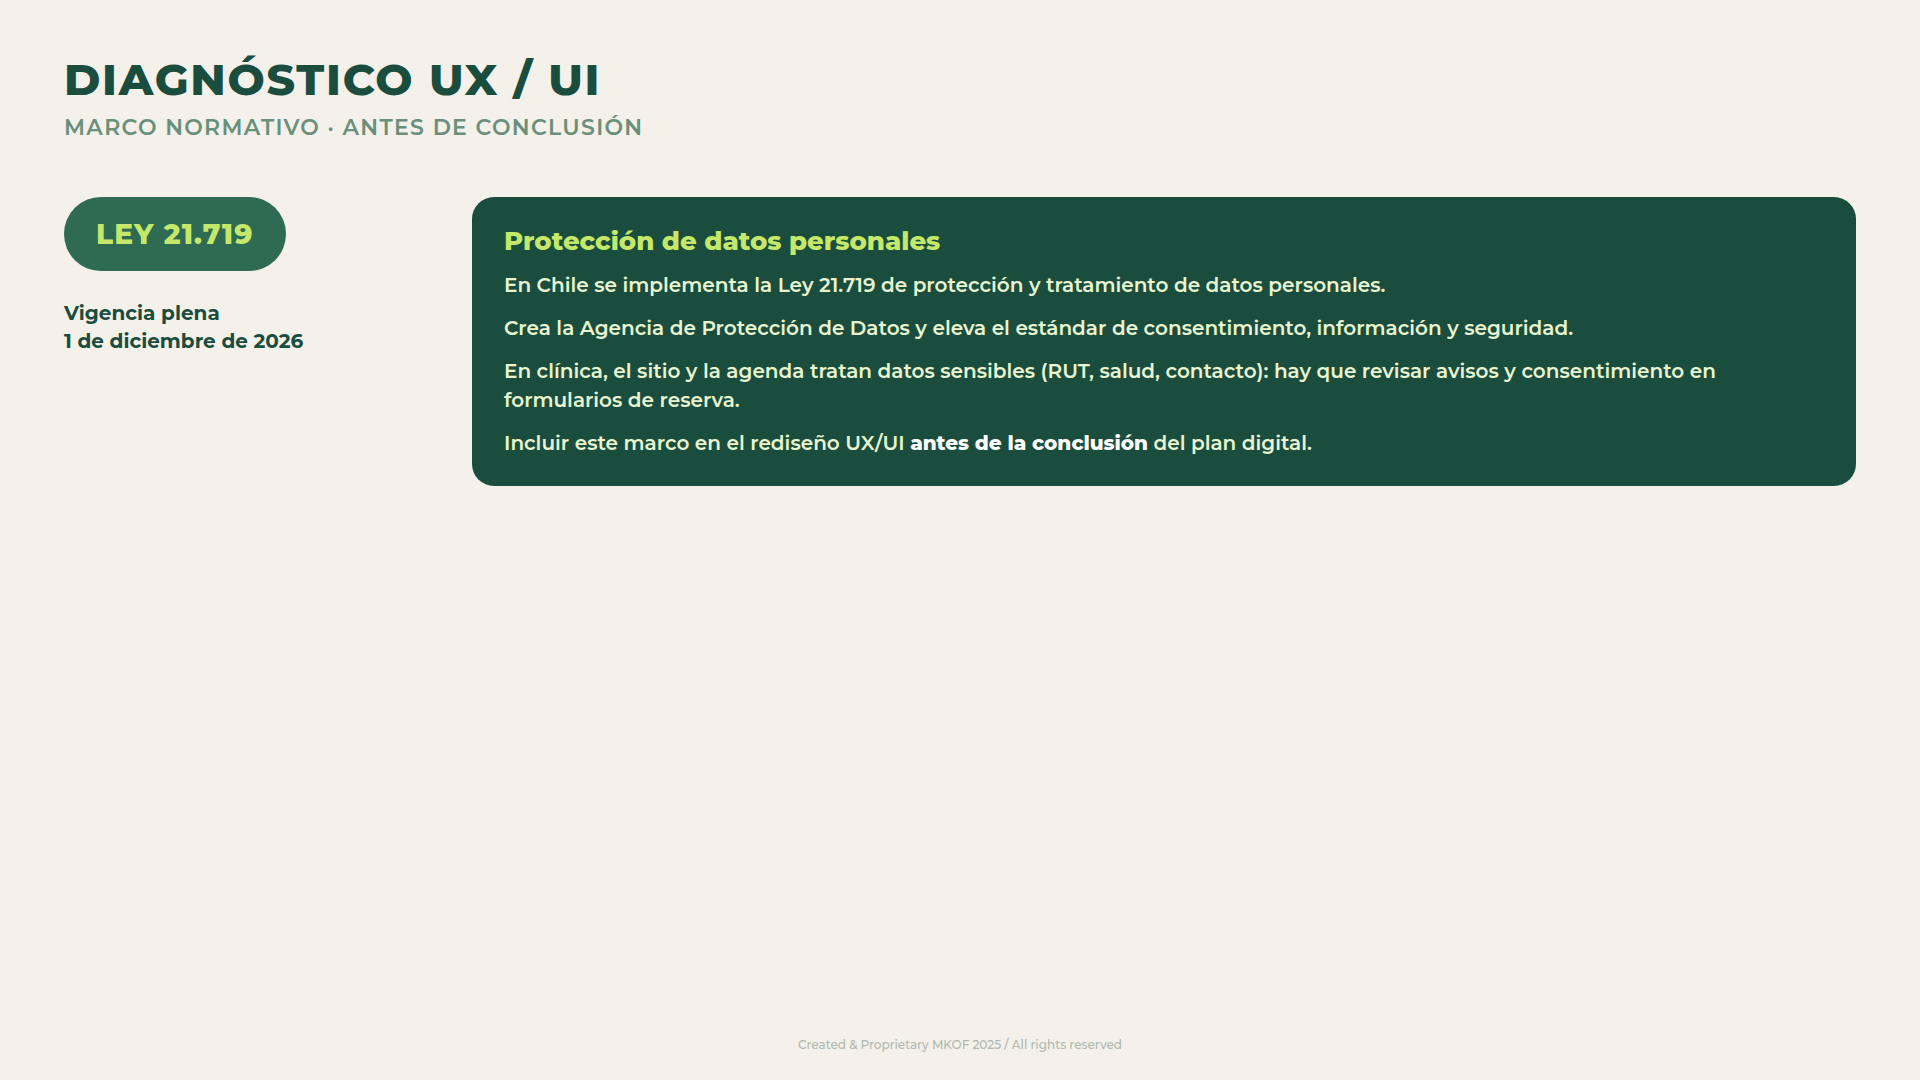
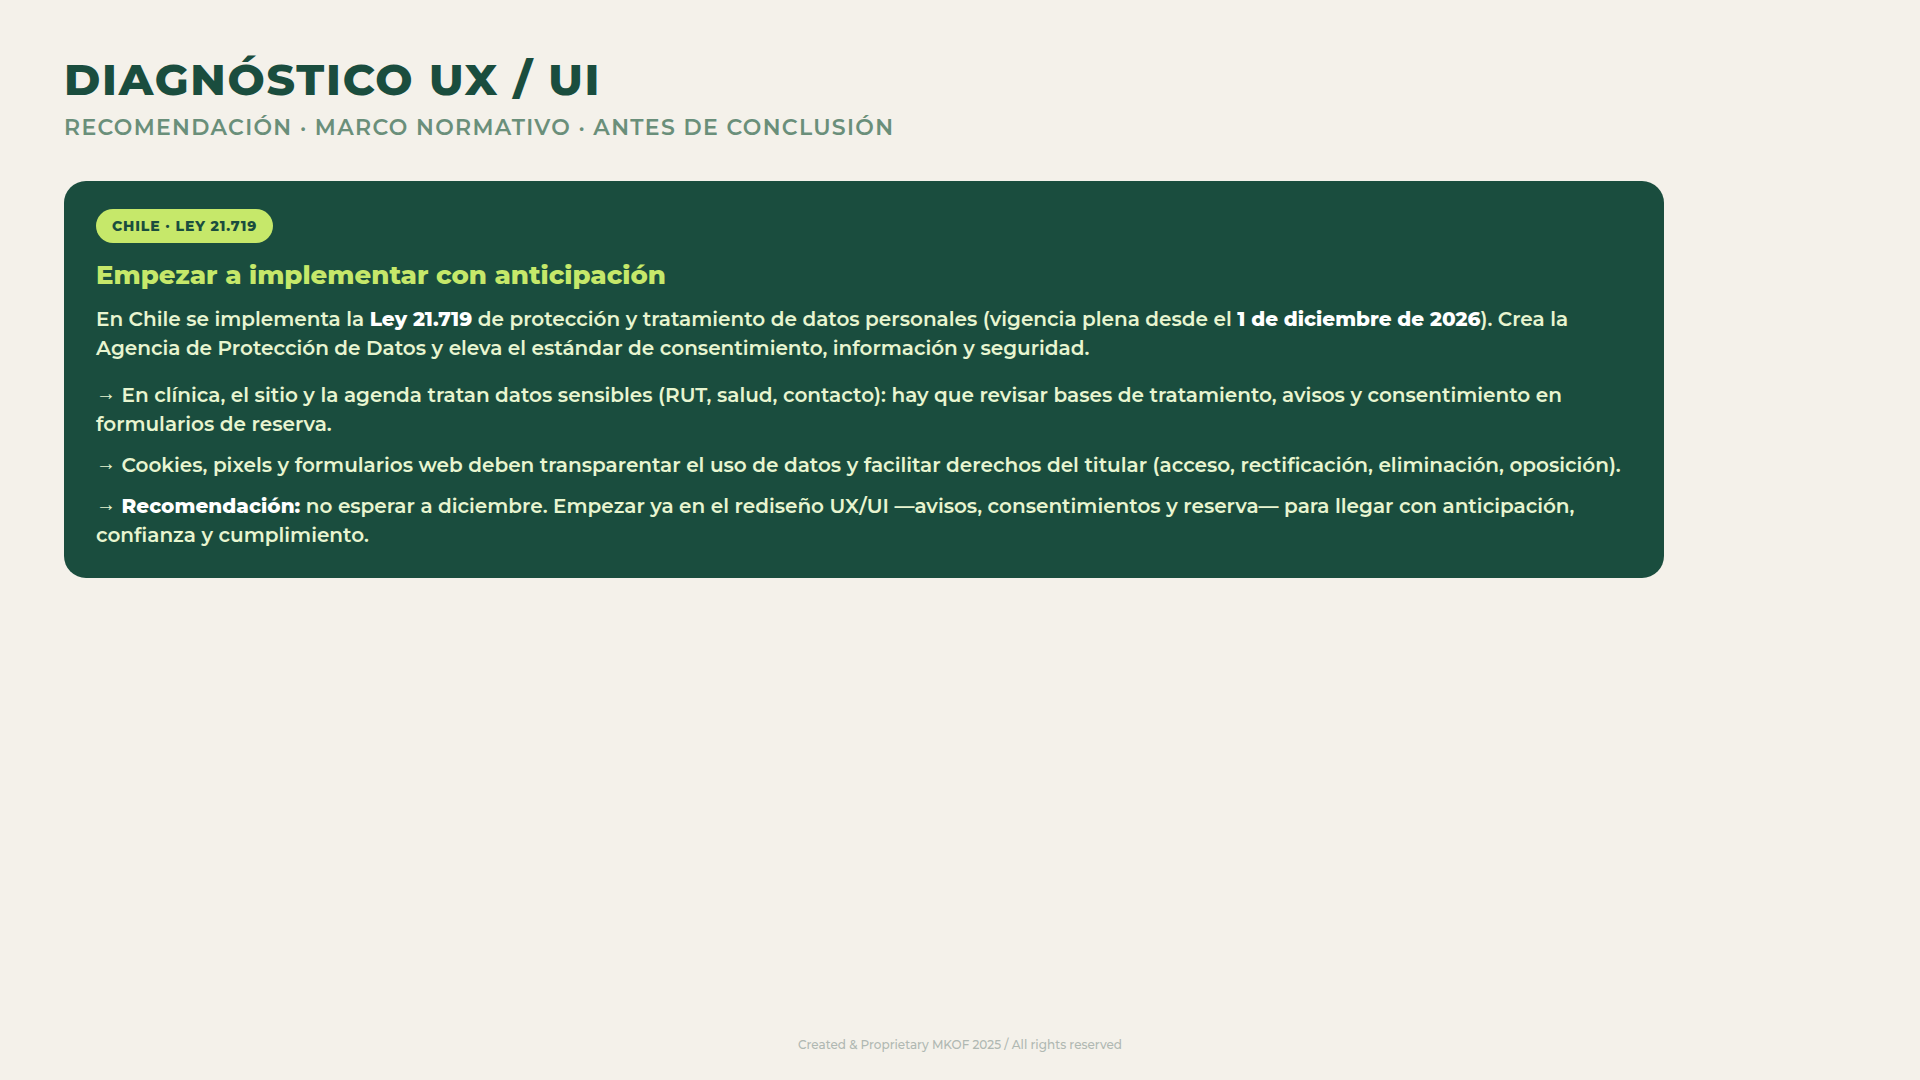
Enmarcar Ley 21.719 como recomendación de anticipación
La lámina 08 deja de ser solo marco normativo: recomienda
empezar ya avisos/consentimientos en reserva antes de dic 2026.

Changed region(s): [[0.0312, 0.1528, 0.9688, 0.55], [0.0312, 0.0917, 0.4688, 0.1222]]

diff --git a/index/clientes/mkof/prospecto/clientes/clinica-indisa/UX-UI/laminas/08-proteccion-datos.html b/index/clientes/mkof/prospecto/clientes/clinica-indisa/UX-UI/laminas/08-proteccion-datos.html
@@ -2,27 +2,32 @@
 <html lang="es">
 <head>
   <meta charset="UTF-8">
-  <title>Ley 21.719</title>
+  <title>Ley 21.719 · Recomendación</title>
   <link rel="stylesheet" href="plantilla-mkof.css">
 </head>
 <body class="slide">
   <h1>DIAGNÓSTICO UX / UI</h1>
-  <div class="sub">MARCO NORMATIVO · ANTES DE CONCLUSIÓN</div>
+  <div class="sub">RECOMENDACIÓN · MARCO NORMATIVO · ANTES DE CONCLUSIÓN</div>
 
-  <div style="display:flex;gap:48px;margin-top:56px;align-items:flex-start">
-    <div style="width:360px">
-      <div class="cap" style="font-size:28px;padding:20px 32px">LEY 21.719</div>
-      <div style="margin-top:28px;font-size:20px;font-weight:700;color:#1a4d3e;line-height:1.4">
-        Vigencia plena<br>1 de diciembre de 2026
-      </div>
+  <div class="box" style="margin-top:40px;max-width:1600px">
+    <div style="display:inline-block;background:#c6e86a;color:#1a4d3e;font-size:14px;font-weight:800;letter-spacing:.06em;padding:8px 16px;border-radius:999px;margin-bottom:16px">
+      CHILE · LEY 21.719
     </div>
-    <div class="box" style="flex:1">
-      <h2>Protección de datos personales</h2>
-      <p>En Chile se implementa la Ley 21.719 de protección y tratamiento de datos personales.</p>
-      <p style="margin-top:14px">Crea la Agencia de Protección de Datos y eleva el estándar de consentimiento, información y seguridad.</p>
-      <p style="margin-top:14px">En clínica, el sitio y la agenda tratan datos sensibles (RUT, salud, contacto): hay que revisar avisos y consentimiento en formularios de reserva.</p>
-      <p style="margin-top:14px">Incluir este marco en el rediseño UX/UI <b style="color:#fff">antes de la conclusión</b> del plan digital.</p>
-    </div>
+    <h2>Empezar a implementar con anticipación</h2>
+    <p>
+      En Chile se implementa la <b style="color:#fff">Ley 21.719</b> de protección y tratamiento de datos personales
+      (vigencia plena desde el <b style="color:#fff">1 de diciembre de 2026</b>).
+      Crea la Agencia de Protección de Datos y eleva el estándar de consentimiento, información y seguridad.
+    </p>
+    <p style="margin-top:18px">
+      → En clínica, el sitio y la agenda tratan datos sensibles (RUT, salud, contacto): hay que revisar bases de tratamiento, avisos y consentimiento en formularios de reserva.
+    </p>
+    <p style="margin-top:12px">
+      → Cookies, pixels y formularios web deben transparentar el uso de datos y facilitar derechos del titular (acceso, rectificación, eliminación, oposición).
+    </p>
+    <p style="margin-top:12px">
+      → <b style="color:#fff">Recomendación:</b> no esperar a diciembre. Empezar ya en el rediseño UX/UI —avisos, consentimientos y reserva— para llegar con anticipación, confianza y cumplimiento.
+    </p>
   </div>
 
   <div class="foot">Created & Proprietary MKOF 2025 / All rights reserved</div>

diff --git a/index/clientes/mkof/prospecto/clientes/clinica-indisa/UX-UI/index.html b/index/clientes/mkof/prospecto/clientes/clinica-indisa/UX-UI/index.html
@@ -164,7 +164,7 @@
       <a class="ux-card" href="laminas/08-proteccion-datos.html" target="_blank" rel="noopener">
         <img src="laminas/08-proteccion-datos.png" alt="" loading="lazy" />
         <strong>08 · Ley 21.719</strong>
-        <span>Ventana vs. competencia</span>
+        <span>Recomendación: anticipar cumplimiento</span>
       </a>
       <a class="ux-card" href="laminas/09-oportunidades-uxui.html" target="_blank" rel="noopener">
         <img src="laminas/09-oportunidades-uxui.png" alt="" loading="lazy" />
